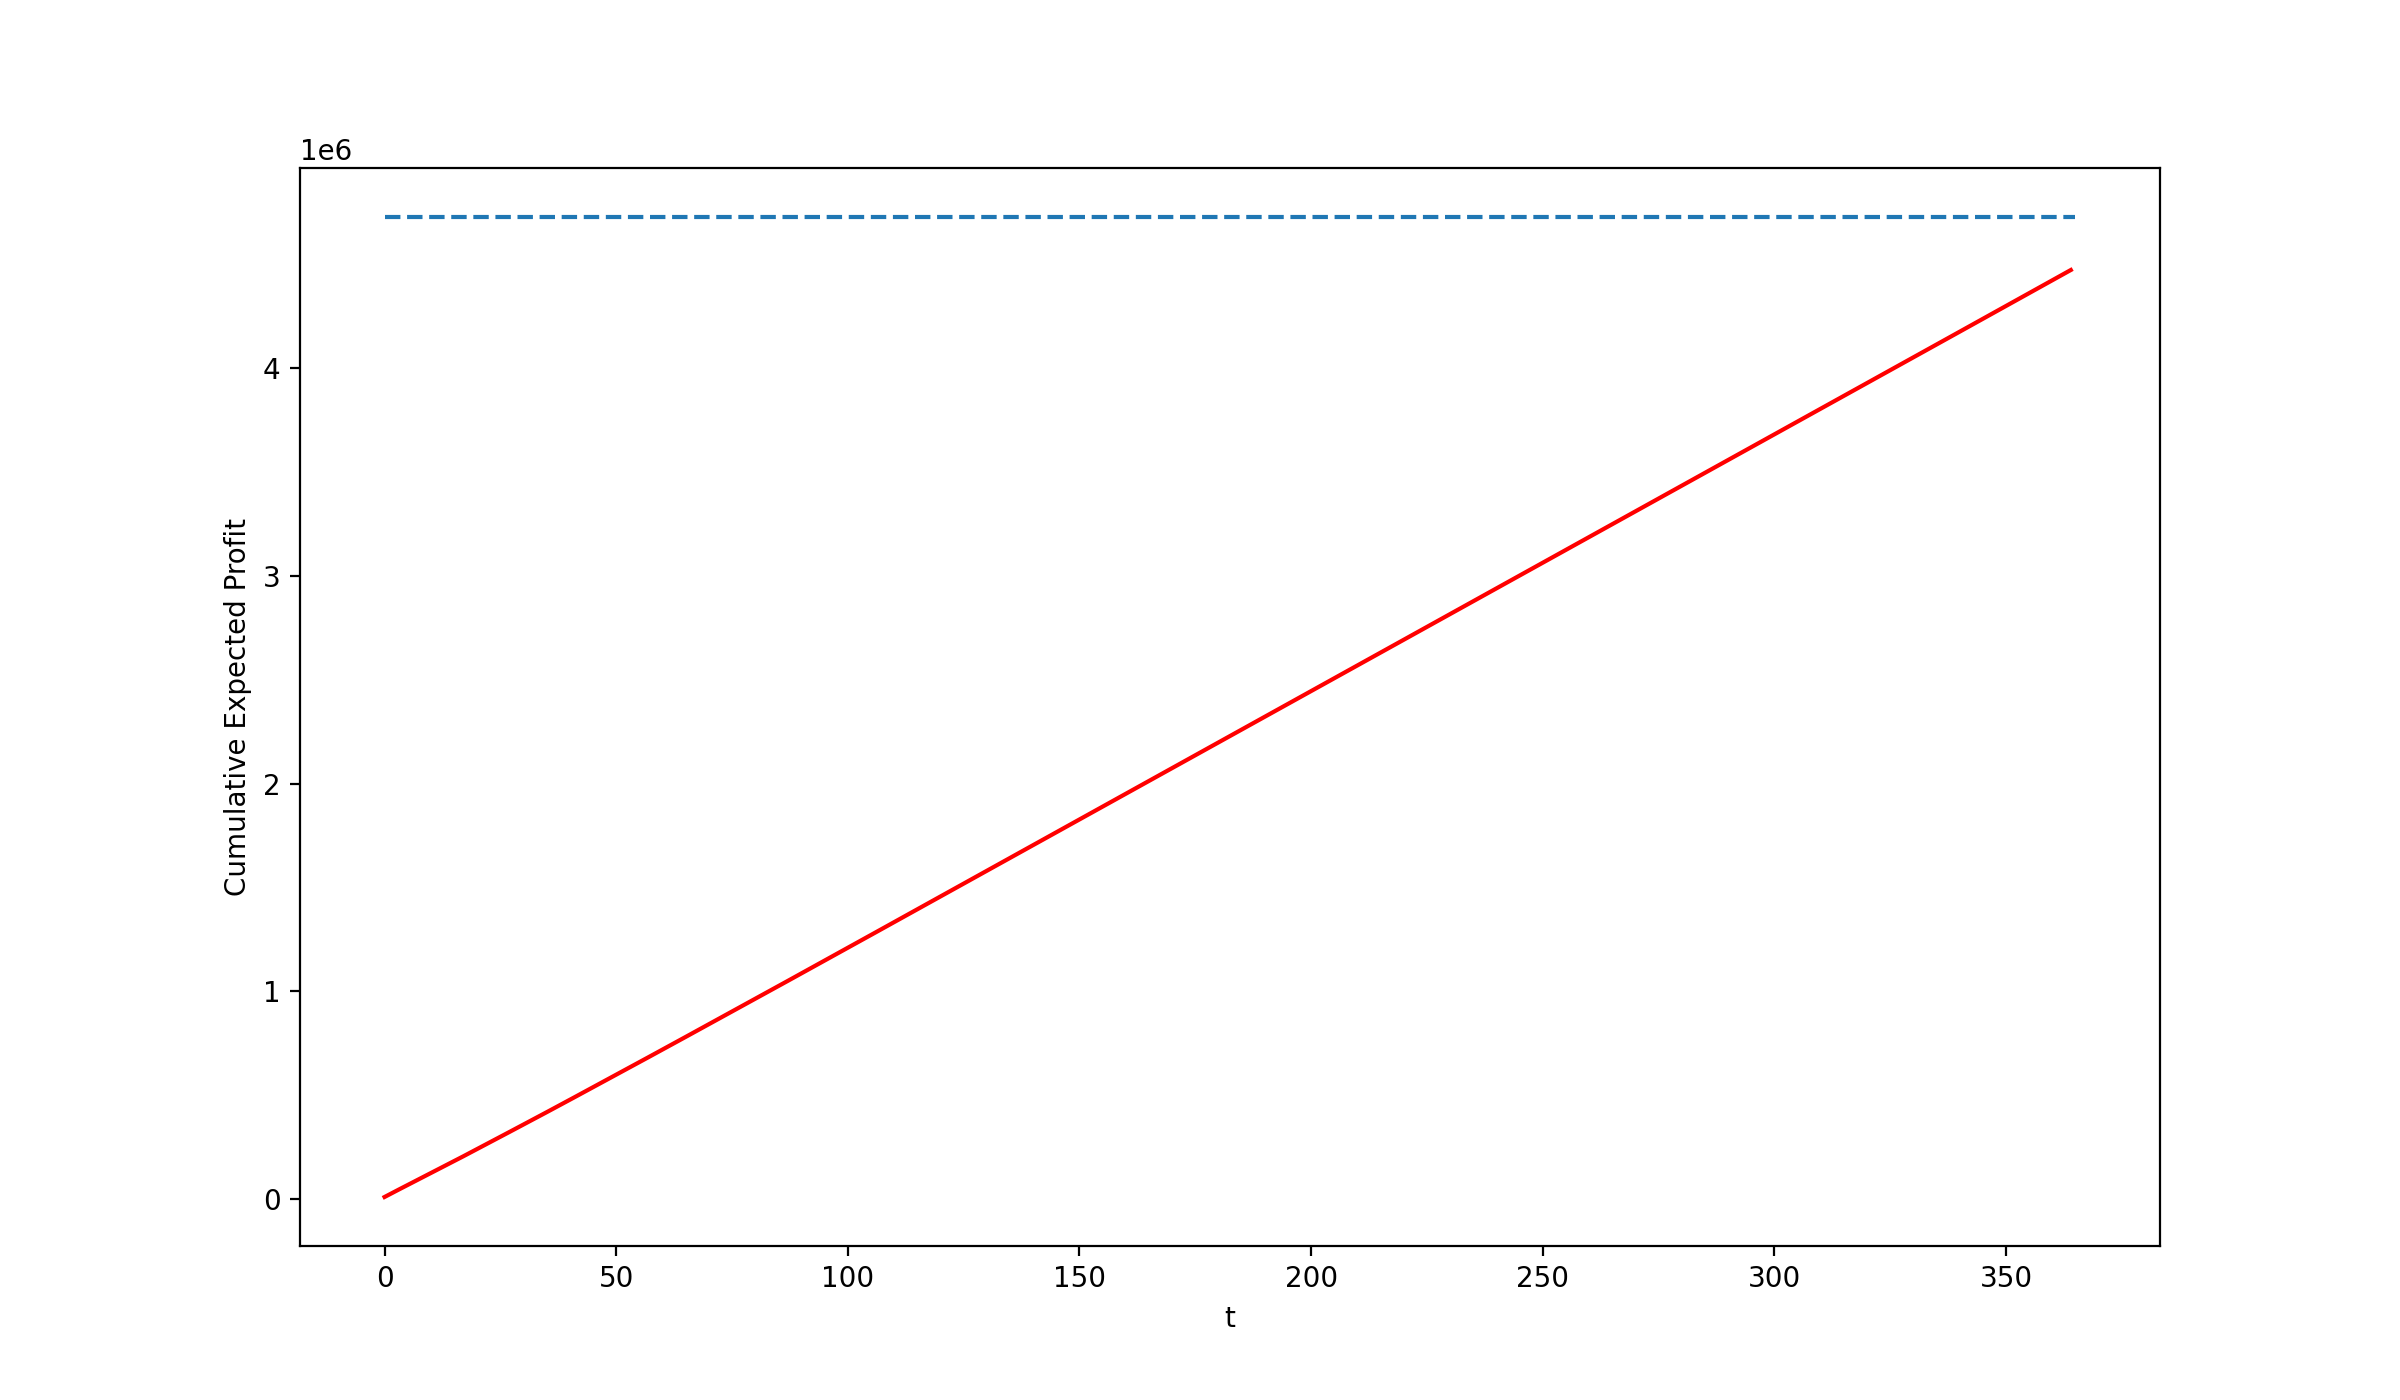
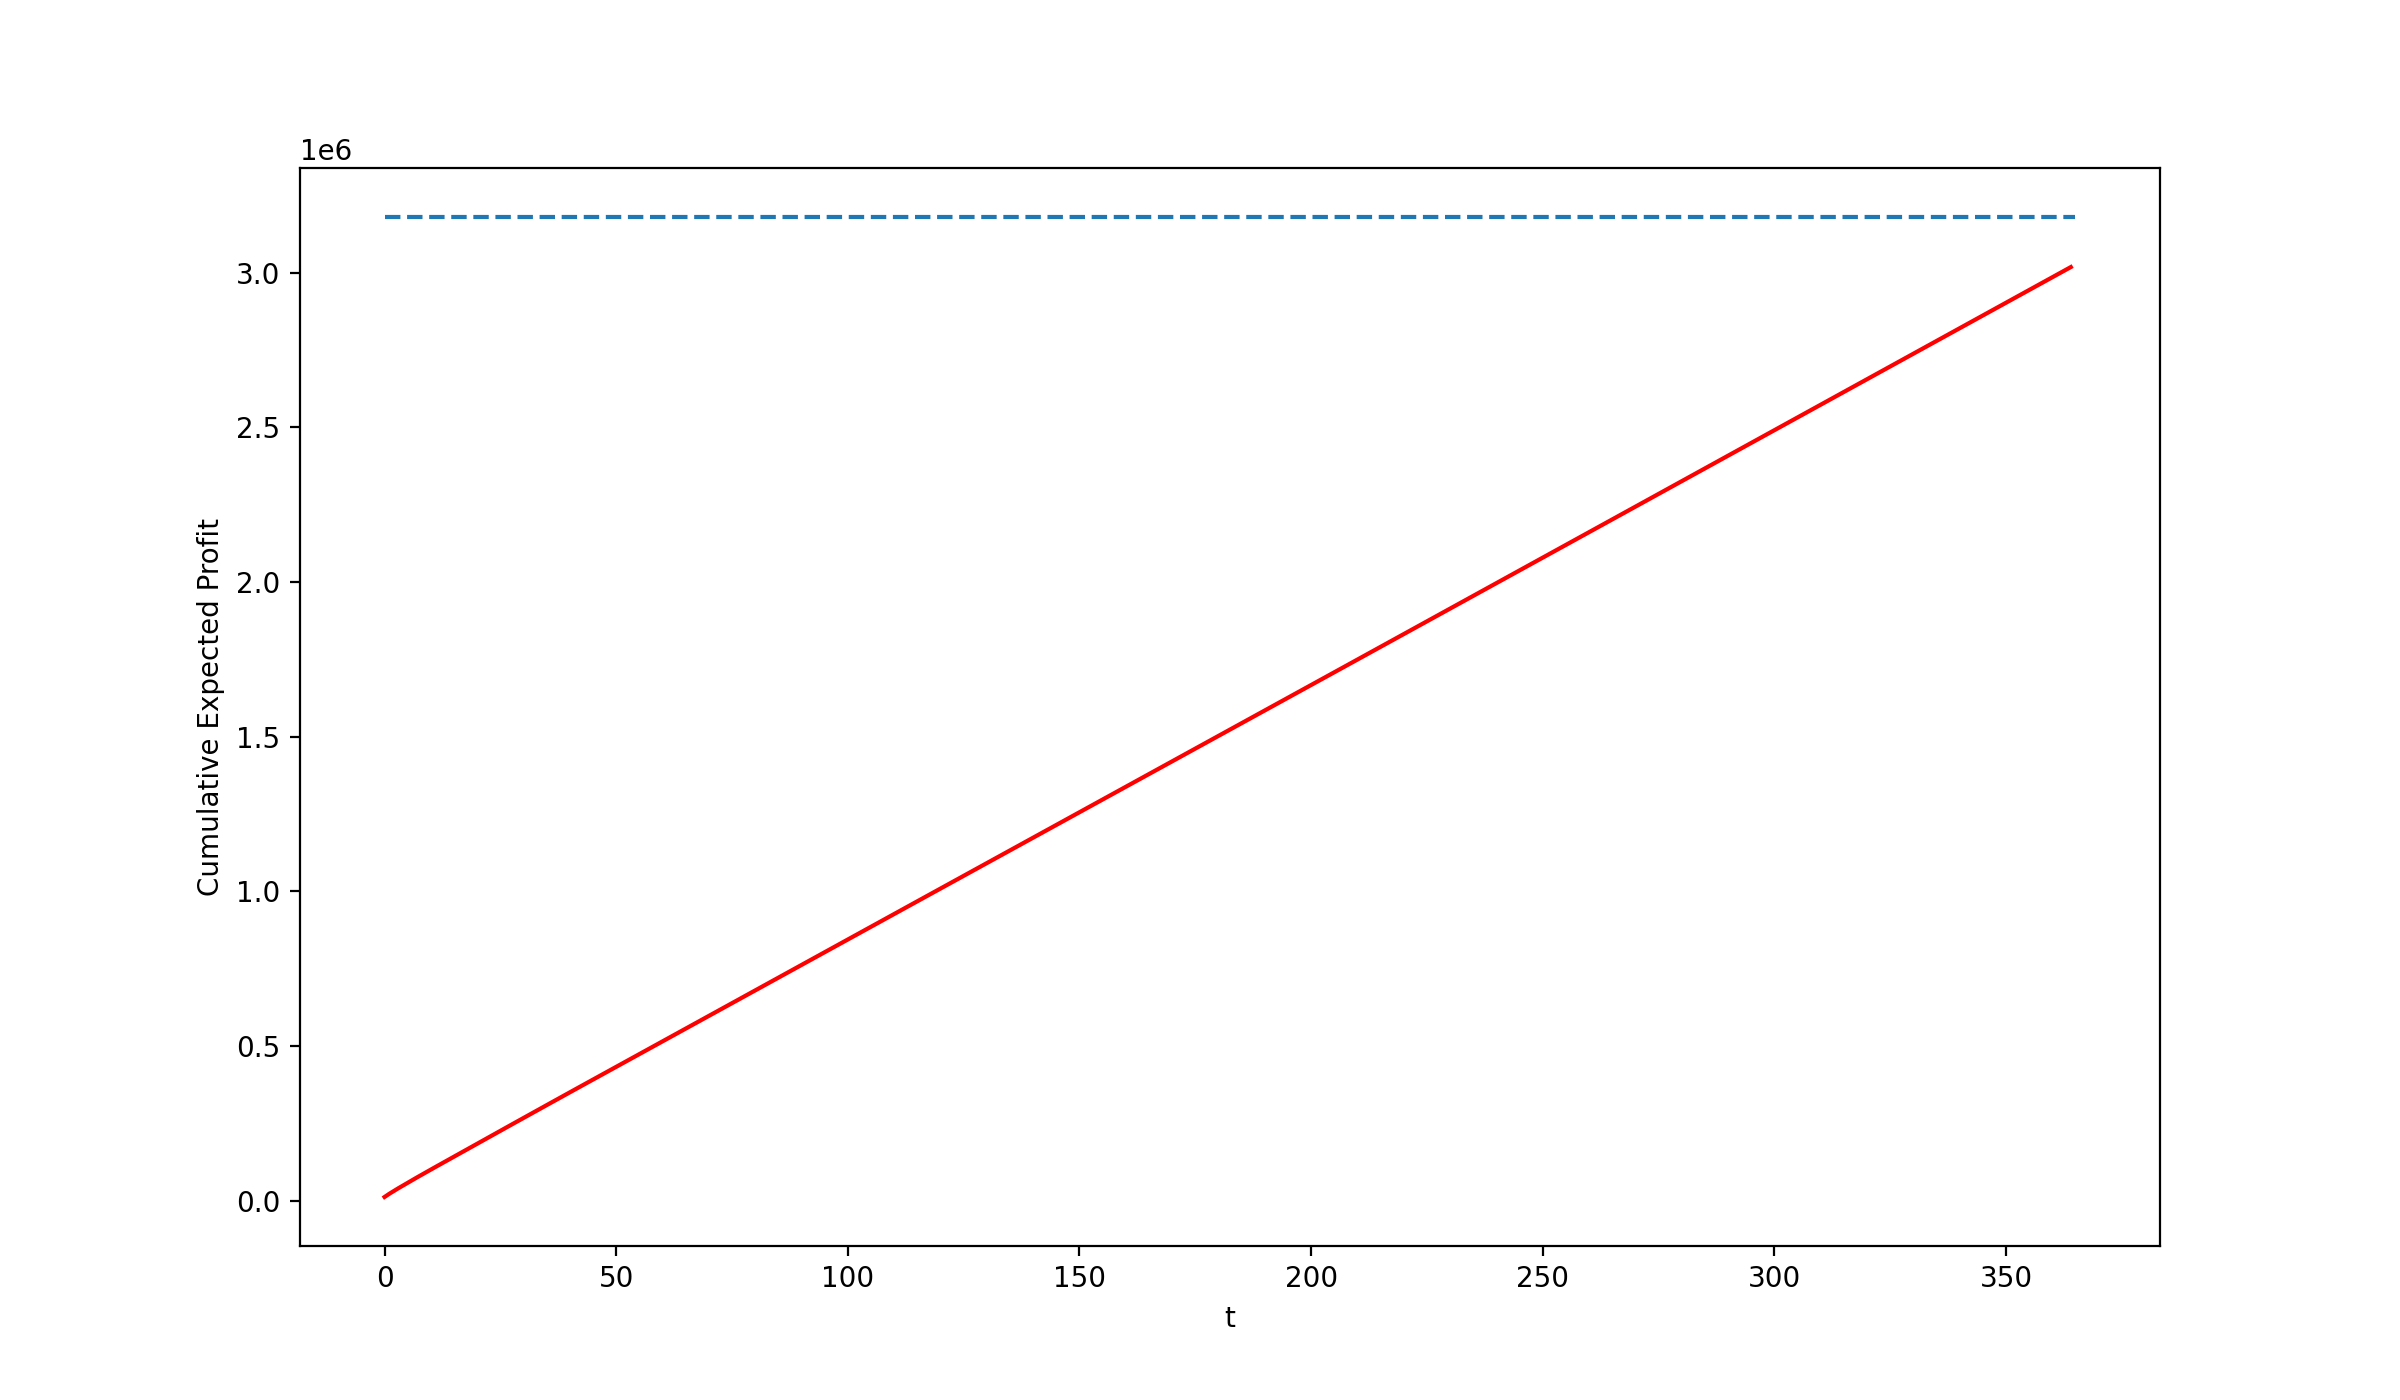
fixed build_matrix

diff --git a/step5/Learner_5.py b/step5/Learner_5.py
@@ -24,7 +24,6 @@ class Learner_5:
 
     def build_matrix(self):
         matrix_dim = np.sum(self.expected_customers)
-        #matrix = np.zeros((4, 0))
 
         # First set integers p1, p2, p3 and the remaining are p0 
         self.n_promos = (self.promo_prob[1 :] * matrix_dim).astype(int)
@@ -32,11 +31,9 @@ class Learner_5:
 
         sampled_cr1 = np.random.beta(self.beta_cr1[:, 0], self.beta_cr1[:, 1])
         sampled_cr2 = np.random.beta(self.beta_cr2[:, :, 0], self.beta_cr2[:, :, 1])
-        # profit = sampled_cr1.reshape((4, 1)) * (self.margin_1 + sampled_cr2 * self.margins_2) ###################################################################
-        profit = sampled_cr1 * (self.margin_1 + sampled_cr2 * self.margins_2)                   ###################################################################
+        profit = sampled_cr1.reshape((4, 1)) * (self.margin_1 + sampled_cr2 * self.margins_2) 
 
         # repeat columns
-        #matrix = np.column_stack([matrix, np.repeat(profit, self.n_promos, axis=1)])
         matrix = np.repeat(profit, self.n_promos, axis=1)
 
         # repeat rows
@@ -48,7 +45,7 @@ class Learner_5:
     def compute_matching(self):
         # hungarian algorithm starting matrix
         matrix = self.build_matrix()
-        #matrix = 100 * np.random.rand(np.sum(self.expected_customers), np.sum(self.expected_customers))
+        
         return hungarian_algorithm(matrix)
 
 

diff --git a/setup/utils.py b/setup/utils.py
@@ -93,8 +93,7 @@ def build_matrix(num_customers, promo_prob, cr1, cr2, margin_1, margins_2):
     n_promos = (promo_prob[1 :] * matrix_dim).astype(int)
     n_promos = np.insert(n_promos, 0, matrix_dim - np.sum(n_promos))
 
-    # profit = cr1.reshape((4, 1)) * (margin_1 + cr2 * margins_2) ##################################################
-    profit = cr1 * (margin_1 + cr2 * margins_2)                   ##################################################
+    profit = cr1.reshape((4, 1)) * (margin_1 + cr2 * margins_2) 
 
     # repeat columns
     matrix = np.repeat(profit, n_promos, axis=1)

diff --git a/setup/hungarian_algorithm.py b/setup/hungarian_algorithm.py
@@ -127,7 +127,7 @@ def hungarian_algorithm(matrix):
     matching_mask[row, col] = 1
     return matching_mask * matrix, matching_mask
 
-##def hungarian_algorithm(matrix):
+# def hungarian_algorithm(matrix):
 #    m = np.max(matrix) - matrix
 #    step1(m)
 #    step2(m)

diff --git a/step5/hungarian_algorithm.py b/step5/hungarian_algorithm.py
@@ -127,7 +127,7 @@ def hungarian_algorithm(matrix):
     matching_mask[row, col] = 1
     return matching_mask * matrix, matching_mask
 
-##def hungarian_algorithm(matrix):
+# def hungarian_algorithm(matrix):
 #    m = np.max(matrix) - matrix
 #    step1(m)
 #    step2(m)
